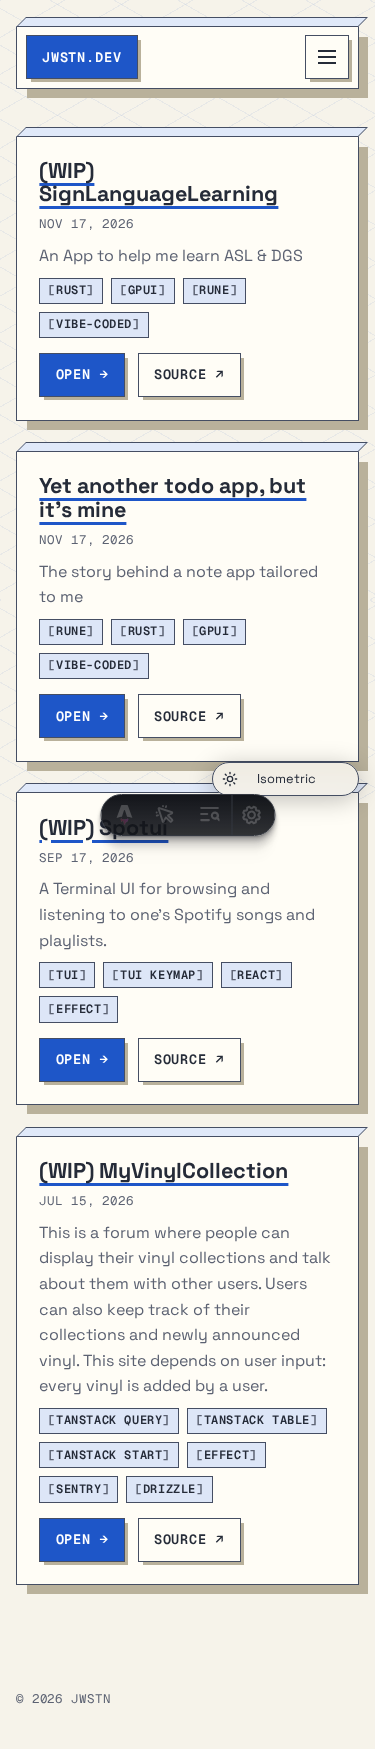
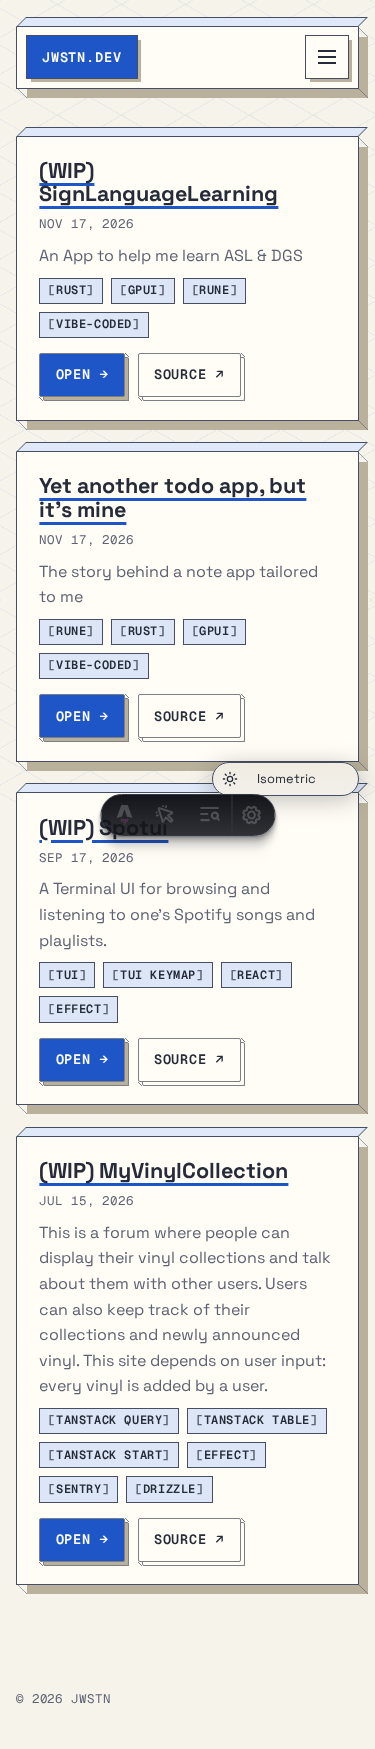
Adopt iso-depth button primitive and card connectors, inspired by isometric.buildlab.in (#35)

diff --git a/src/themes/isometric/theme.css b/src/themes/isometric/theme.css
@@ -213,6 +213,7 @@ html.theme-isometric .iso-dim-arrow--r {
 
 html.theme-isometric .iso-slab {
   position: relative;
+  isolation: isolate;
   --iso-face-h: 10px;
   background: var(--card);
   color: var(--card-foreground);
@@ -225,6 +226,48 @@ html.theme-isometric .iso-slab:focus-within {
   box-shadow: 14px 14px 0 -1px var(--iso-side);
 }
 /* top face: parallelogram leaning back-right, purely decorative */
+/* The three connectors of the shared iso-depth pattern, drawn over the
+   slab's offset side. Adapted from isometric.buildlab.in (MIT). */
+html.theme-isometric .iso-slab::before {
+  content: "";
+  position: absolute;
+  z-index: -1;
+  top: 0;
+  left: 0;
+  right: -10px;
+  bottom: -10px;
+  pointer-events: none;
+  opacity: 0.5;
+  background-image:
+    linear-gradient(
+      to top right,
+      transparent calc(50% - 0.6px),
+      var(--iso-edge) calc(50% - 0.6px),
+      var(--iso-edge) calc(50% + 0.6px),
+      transparent calc(50% + 0.6px)
+    ),
+    linear-gradient(
+      to top right,
+      transparent calc(50% - 0.6px),
+      var(--iso-edge) calc(50% - 0.6px),
+      var(--iso-edge) calc(50% + 0.6px),
+      transparent calc(50% + 0.6px)
+    ),
+    linear-gradient(
+      to top right,
+      transparent calc(50% - 0.6px),
+      var(--iso-edge) calc(50% - 0.6px),
+      var(--iso-edge) calc(50% + 0.6px),
+      transparent calc(50% + 0.6px)
+    );
+  background-position:
+    100% 0,
+    100% 100%,
+    0 100%;
+  background-size: 10px 10px;
+  background-repeat: no-repeat;
+}
+
 html.theme-isometric .iso-slab::after {
   content: "";
   position: absolute;
@@ -243,8 +286,7 @@ html.theme-isometric .iso-slab::after {
 /* Keys — flat control-panel buttons (nav, actions)                     */
 /* ------------------------------------------------------------------ */
 
-html.theme-isometric .iso-key,
-html.theme-isometric .iso-btn {
+html.theme-isometric .iso-key {
   display: inline-flex;
   align-items: center;
   justify-content: center;
@@ -262,8 +304,7 @@ html.theme-isometric .iso-btn {
   text-decoration: none;
   transition: box-shadow 160ms ease;
 }
-html.theme-isometric .iso-key:hover,
-html.theme-isometric .iso-btn:hover {
+html.theme-isometric .iso-key:hover {
   box-shadow: 7px 7px 0 -1px var(--iso-side);
 }
 html.theme-isometric .iso-key[aria-current="page"] {
@@ -277,14 +318,6 @@ html.theme-isometric .iso-key--logo {
 html.theme-isometric .iso-key--ghost {
   background: var(--secondary);
   color: var(--secondary-foreground);
-}
-html.theme-isometric .iso-btn {
-  background: var(--primary);
-  color: var(--primary-foreground);
-}
-html.theme-isometric .iso-btn--ghost {
-  background: var(--card);
-  color: var(--foreground);
 }
 html.theme-isometric .iso-btn--accent {
   background: var(--accent);
@@ -663,6 +696,129 @@ html.theme-isometric .iso-pagehead-meta {
   text-transform: uppercase;
   color: var(--accent);
 }
+/* Isometric button primitive (depth pattern adapted from isometric.buildlab.in, MIT) — offset outline, diagonal connectors, and a
+   face that sinks into its depth when pressed (after isometric.buildlab.in). */
+html.theme-isometric .iso-btn {
+  --iso-d: 4px;
+  --iso-line: color-mix(in oklab, var(--foreground) 55%, var(--background));
+  --iso-btn-side: var(--iso-side);
+
+  position: relative;
+  display: inline-flex;
+  vertical-align: middle;
+  text-decoration: none;
+}
+html.theme-isometric .iso-btn-depth {
+  position: absolute;
+  inset: 0;
+  transform: translate(var(--iso-d), var(--iso-d));
+  border: 1px solid var(--iso-line);
+  border-radius: 2px;
+  background: var(--iso-btn-side);
+}
+html.theme-isometric .iso-btn::before {
+  content: "";
+  position: absolute;
+  top: 0;
+  left: 0;
+  right: calc(var(--iso-d) * -1);
+  bottom: calc(var(--iso-d) * -1);
+  pointer-events: none;
+  background-image:
+    linear-gradient(
+      to top right,
+      transparent calc(50% - 0.6px),
+      var(--iso-line) calc(50% - 0.6px),
+      var(--iso-line) calc(50% + 0.6px),
+      transparent calc(50% + 0.6px)
+    ),
+    linear-gradient(
+      to top right,
+      transparent calc(50% - 0.6px),
+      var(--iso-line) calc(50% - 0.6px),
+      var(--iso-line) calc(50% + 0.6px),
+      transparent calc(50% + 0.6px)
+    ),
+    linear-gradient(
+      to top right,
+      transparent calc(50% - 0.6px),
+      var(--iso-line) calc(50% - 0.6px),
+      var(--iso-line) calc(50% + 0.6px),
+      transparent calc(50% + 0.6px)
+    );
+  background-position:
+    100% 0,
+    100% 100%,
+    0 100%;
+  background-size: var(--iso-d) var(--iso-d);
+  background-repeat: no-repeat;
+  transition: opacity 150ms ease;
+}
+html.theme-isometric .iso-btn-face {
+  position: relative;
+  z-index: 1;
+  display: inline-flex;
+  align-items: center;
+  justify-content: center;
+  gap: 0.5rem;
+  min-height: 44px;
+  padding: 0.45rem 0.95rem;
+  border: 1px solid var(--iso-line);
+  border-radius: 2px;
+  background: var(--primary);
+  color: var(--primary-foreground);
+  font-family: var(--font-mono);
+  font-size: 0.85rem;
+  font-weight: 600;
+  text-transform: uppercase;
+  letter-spacing: 0.06em;
+  transition:
+    transform 150ms cubic-bezier(0.2, 0.7, 0.1, 1),
+    background-color 150ms ease;
+}
+html.theme-isometric .iso-btn:hover .iso-btn-face {
+  background: color-mix(in oklab, var(--primary) 88%, var(--foreground));
+}
+html.theme-isometric .iso-btn--ghost {
+  --iso-btn-side: var(--card);
+}
+html.theme-isometric .iso-btn--ghost .iso-btn-face {
+  background: var(--card);
+  color: var(--foreground);
+}
+html.theme-isometric .iso-btn--ghost:hover .iso-btn-face {
+  background: var(--secondary);
+}
+html.theme-isometric .iso-btn--accent {
+  --iso-btn-side: color-mix(in oklab, var(--accent) 76%, var(--background));
+}
+html.theme-isometric .iso-btn--accent .iso-btn-face {
+  background: var(--accent);
+  color: var(--accent-foreground);
+}
+html.theme-isometric .iso-btn--accent:hover .iso-btn-face {
+  background: color-mix(in oklab, var(--accent) 88%, var(--foreground));
+}
+html.theme-isometric .iso-btn:active .iso-btn-face {
+  transform: translate(var(--iso-d), var(--iso-d));
+}
+html.theme-isometric .iso-btn:active::before {
+  opacity: 0;
+}
+html.theme-isometric .iso-btn:focus-visible {
+  outline: none;
+}
+html.theme-isometric .iso-btn:focus-visible .iso-btn-face {
+  outline: 2px solid var(--primary);
+  outline-offset: 2px;
+}
+@media (prefers-reduced-motion: reduce) {
+  html.theme-isometric .iso-btn-face,
+  html.theme-isometric .iso-btn::before {
+    transition: none;
+  }
+}
+
 html.theme-isometric .iso-backrow {
   margin: 0;
 }

diff --git a/THEME_CONTRACT.md b/THEME_CONTRACT.md
@@ -23,6 +23,11 @@ Read it fully before writing any code.
 
 ## Design rules (site-wide)
 
+- **Isometric primitives use line-drawn depth**: an offset outline plus diagonal connectors, with the
+  face translating into the depth on press (see `IsoButton.astro`, adapted from isometric.buildlab.in,
+  MIT). Buttons must use `IsoButton` rather than hand-rolled `.iso-btn` anchors.
+
+
 - **No page-head bars that repeat the navigation.** A route already named in the header (Projects,
   Blog, Gallery, Music) must not open with a large boxed title duplicating it — use a visually hidden
   `<h1>` for semantics.
